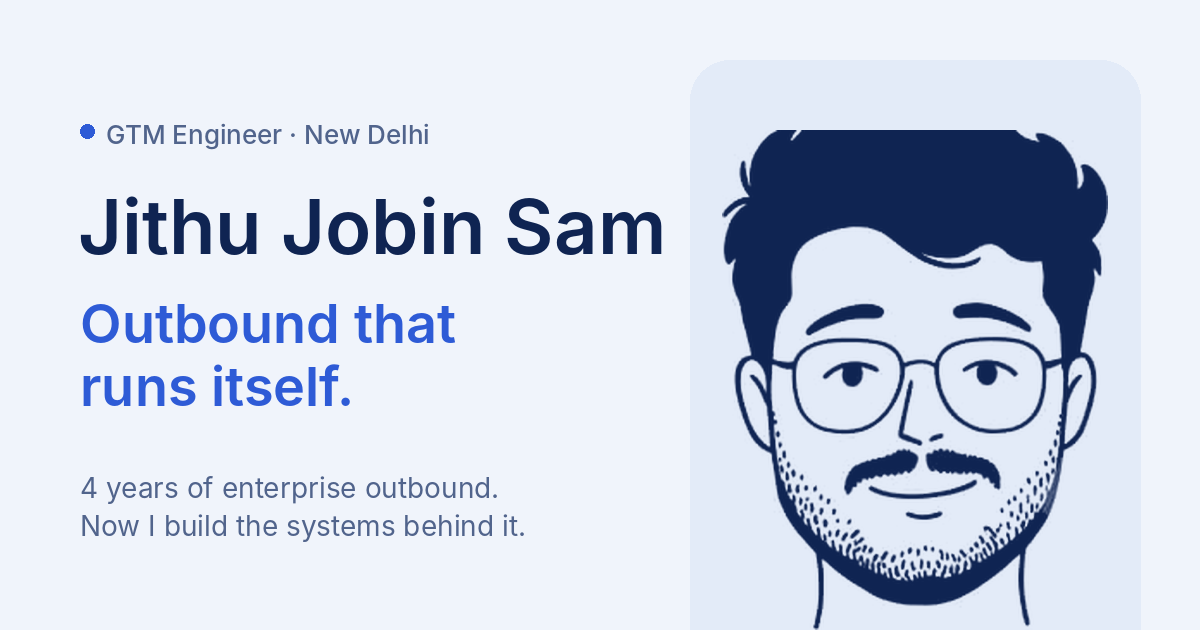
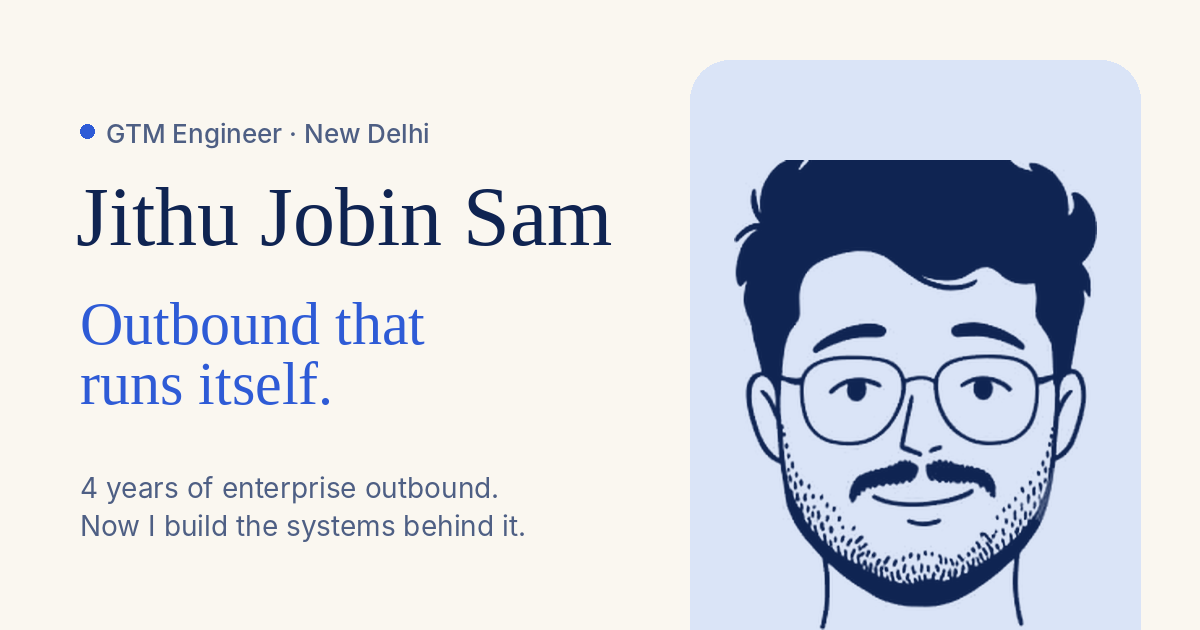
Restyle site: cream background, blue primary, light-blue secondary, Georgia headings
Headings use Georgia with Gelasio (metric-compatible, Google Fonts) as the
fallback for Android/Linux. Body stays Inter. Preview image, touch icon,
favicon and 404 page updated to match.

Claude-Session: https://claude.ai/code/session_01E1XTCNkNFvzMiGm2okHqzM

diff --git a/site/index.html b/site/index.html
@@ -5,7 +5,7 @@
 <meta name="viewport" content="width=device-width, initial-scale=1, viewport-fit=cover">
 <title>Jithu Jobin Sam</title>
 <meta name="description" content="Jithu Jobin Sam, GTM Engineer. Four years of enterprise outbound, now building the systems that run it. Founder of Clospect.">
-<meta name="theme-color" content="#FBFCFE" media="(prefers-color-scheme: light)">
+<meta name="theme-color" content="#FAF7F0" media="(prefers-color-scheme: light)">
 <meta name="theme-color" content="#0A1430" media="(prefers-color-scheme: dark)">
 <meta property="og:type" content="website">
 <meta property="og:title" content="Jithu Jobin Sam · GTM Engineer">
@@ -16,22 +16,24 @@
 <link rel="apple-touch-icon" href="/apple-touch-icon.png">
 <link rel="preconnect" href="https://fonts.googleapis.com">
 <link rel="preconnect" href="https://fonts.gstatic.com" crossorigin>
-<link rel="stylesheet" href="https://fonts.googleapis.com/css2?family=Inter:wght@400;500;600;700&display=swap">
+<link rel="stylesheet" href="https://fonts.googleapis.com/css2?family=Gelasio:wght@400;500;600&family=Inter:wght@400;500;600;700&display=swap">
 <style>
 /* Layout: Apple-style product page. Centered statements, generous white space,
-   soft rounded tiles, one idea per section. Everything is one blue, in many tints. */
+   soft rounded tiles, one idea per section. Cream paper, a blue primary,
+   light-blue secondary surfaces, Georgia headings over a quiet sans body. */
 :root {
-  --bg: #FBFCFE;
-  --tile: #F0F4FB;
-  --tile-2: #E3EBF8;
+  --bg: #FAF7F0;
+  --tile: #E9EFFA;
+  --tile-2: #DAE4F7;
   --ink: #0F2452;
-  --ink-2: #51648C;
-  --line: #D6DFEF;
+  --ink-2: #4E5F84;
+  --line: #E2DACB;
   --accent: #2E5BD6;
-  --accent-soft: #DCE6FB;
+  --accent-soft: #D3E0FA;
   --on-accent: #FFFFFF;
 
   --font: "Inter", -apple-system, BlinkMacSystemFont, "SF Pro Text", "Helvetica Neue", Arial, sans-serif;
+  --serif: Georgia, "Gelasio", "Iowan Old Style", "Times New Roman", serif;
 
   --t-small: .875rem;
   --t-body: 1.0625rem;
@@ -68,10 +70,10 @@ a { color: var(--accent); text-decoration: none; }
 a:hover { text-decoration: underline; text-underline-offset: 3px; }
 :focus-visible { outline: 2px solid var(--accent); outline-offset: 3px; border-radius: 8px; }
 ::selection { background: var(--accent-soft); }
-h1, h2, h3 { margin: 0; font-weight: 600; letter-spacing: -.028em; line-height: 1.08; text-wrap: balance; color: var(--ink); }
+h1, h2, h3 { margin: 0; font-family: var(--serif); font-weight: 400; letter-spacing: -.012em; line-height: 1.12; text-wrap: balance; color: var(--ink); }
 h1 { font-size: var(--t-h1); }
 h2 { font-size: var(--t-h2); }
-h3 { font-size: var(--t-h3); letter-spacing: -.02em; line-height: 1.2; }
+h3 { font-size: var(--t-h3); letter-spacing: -.005em; line-height: 1.22; }
 p { margin: 0; }
 .wrap { max-width: var(--wrap); margin-inline: auto; padding-inline: var(--gutter); }
 .kicker { font-size: var(--t-small); font-weight: 600; color: var(--accent); letter-spacing: 0; margin: 0; }
@@ -151,7 +153,7 @@ p { margin: 0; }
   background: var(--bg); box-shadow: 0 10px 30px -14px color-mix(in srgb, var(--ink) 40%, transparent);
   font-size: .82rem; color: var(--ink-2); cursor: default; transition: transform .25s ease;
 }
-.chip b { color: var(--ink); font-weight: 600; font-size: 1rem; font-variant-numeric: tabular-nums; }
+.chip b { color: var(--ink); font-family: var(--serif); font-weight: 400; font-size: 1.1rem; font-variant-numeric: lining-nums tabular-nums; }
 .chip:hover { transform: translateY(-4px); }
 .chip.c1 { left: 7%; top: 22%; } .chip.c2 { left: 4%; top: 56%; } .chip.c3 { right: 7%; top: 22%; } .chip.c4 { right: 4%; top: 56%; }
 .say {
@@ -185,7 +187,7 @@ p { margin: 0; }
 .chapter .text p.body strong { color: var(--ink); font-weight: 600; }
 .chapter .note { display: flex; gap: 2rem; flex-wrap: wrap; padding-top: 1rem; border-top: 1px solid var(--line); }
 .chapter .note div { display: grid; }
-.chapter .note b { font-size: 1.5rem; font-weight: 600; letter-spacing: -.03em; font-variant-numeric: tabular-nums; }
+.chapter .note b { font-family: var(--serif); font-size: 1.6rem; font-weight: 400; letter-spacing: -.01em; font-variant-numeric: lining-nums tabular-nums; }
 .chapter .note span { font-size: var(--t-small); color: var(--ink-2); }
 @media (max-width: 760px) {
   .chapter { grid-template-columns: 1fr; }
@@ -212,7 +214,7 @@ p { margin: 0; }
 .steps { list-style: none; margin: 0; padding: clamp(1.2rem, 2.5vw, 1.8rem); background: var(--tile); border-radius: var(--r-lg); display: grid; gap: .25rem; }
 .step { display: grid; grid-template-columns: 2rem minmax(0, 1fr); gap: .9rem; padding: .7rem .6rem; border-radius: 14px; transition: background .25s ease; }
 .step .n { width: 2rem; height: 2rem; border-radius: 50%; display: grid; place-items: center; font-size: .78rem; font-weight: 600; background: var(--bg); color: var(--ink-2); transition: background .25s, color .25s; font-variant-numeric: tabular-nums; }
-.step h3 { font-size: 1rem; letter-spacing: -.01em; line-height: 1.3; padding-top: .3rem; }
+.step h3 { font-family: var(--font); font-weight: 600; font-size: 1rem; letter-spacing: -.01em; line-height: 1.3; padding-top: .3rem; }
 .step h3 span { font-weight: 400; color: var(--ink-2); }
 .step p { font-size: .9rem; color: var(--ink-2); margin-top: .2rem; line-height: 1.45; }
 .step.on { background: var(--bg); }
@@ -249,7 +251,7 @@ p { margin: 0; }
 .card { scroll-snap-align: start; margin: 0; background: var(--tile); border-radius: var(--r-md); padding: 1.2rem 1.2rem 1.4rem; display: grid; gap: .9rem; }
 .card .face { height: 150px; width: 100%; }
 .card .t { font-size: .78rem; font-weight: 600; color: var(--accent); }
-.card .c { font-size: 1.02rem; font-weight: 500; line-height: 1.35; letter-spacing: -.015em; }
+.card .c { font-family: var(--serif); font-size: 1.08rem; line-height: 1.38; }
 
 /* paths */
 .paths { display: grid; grid-template-columns: repeat(2, minmax(0, 1fr)); gap: 1rem; }
@@ -273,7 +275,7 @@ p { margin: 0; }
 
 /* stack */
 .stack { display: grid; grid-template-columns: repeat(3, minmax(0, 1fr)); gap: 2.5rem 2rem; }
-.stack h3 { font-size: 1rem; letter-spacing: -.01em; margin-bottom: .6rem; }
+.stack h3 { font-family: var(--font); font-weight: 600; font-size: 1rem; letter-spacing: -.01em; margin-bottom: .6rem; }
 .stack p { color: var(--ink-2); font-size: .95rem; line-height: 1.6; }
 @media (max-width: 760px) { .stack { grid-template-columns: 1fr 1fr; } }
 @media (max-width: 480px) { .stack { grid-template-columns: 1fr; } }

diff --git a/site/404.html b/site/404.html
@@ -5,16 +5,16 @@
 <meta name="viewport" content="width=device-width, initial-scale=1, viewport-fit=cover">
 <title>Page not found · Jithu Jobin Sam</title>
 <link rel="icon" href="/favicon.svg" type="image/svg+xml">
-<link rel="stylesheet" href="https://fonts.googleapis.com/css2?family=Inter:wght@400;600&display=swap">
+<link rel="stylesheet" href="https://fonts.googleapis.com/css2?family=Gelasio:wght@400&family=Inter:wght@400;600&display=swap">
 <style>
-:root { --bg: #FBFCFE; --ink: #0F2452; --ink-2: #51648C; --accent: #2E5BD6; --on-accent: #FFFFFF; }
+:root { --bg: #FAF7F0; --ink: #0F2452; --ink-2: #51648C; --accent: #2E5BD6; --on-accent: #FFFFFF; }
 @media (prefers-color-scheme: dark) { :root { --bg: #0A1430; --ink: #E9EFFC; --ink-2: #9EB1D8; --accent: #82A4FF; --on-accent: #0A1430; color-scheme: dark; } }
 * { box-sizing: border-box; }
 body { margin: 0; min-height: 100vh; min-height: 100dvh; display: grid; place-items: center; background: var(--bg); color: var(--ink);
   font: 400 1.0625rem/1.55 "Inter", -apple-system, BlinkMacSystemFont, "Helvetica Neue", Arial, sans-serif; padding: 2rem 16px; text-align: center; }
 main { display: grid; gap: 1rem; justify-items: center; max-width: 30rem; }
 img { width: 120px; height: auto; }
-h1 { margin: 0; font-size: clamp(2rem, 6vw, 3rem); font-weight: 600; letter-spacing: -.03em; line-height: 1.1; }
+h1 { margin: 0; font-family: Georgia, "Gelasio", "Times New Roman", serif; font-size: clamp(2rem, 6vw, 3rem); font-weight: 400; letter-spacing: -.01em; line-height: 1.12; }
 p { margin: 0; color: var(--ink-2); }
 a { margin-top: .5rem; display: inline-block; background: var(--accent); color: var(--on-accent); text-decoration: none; font-weight: 500; padding: .8rem 1.35rem; border-radius: 980px; }
 </style>
